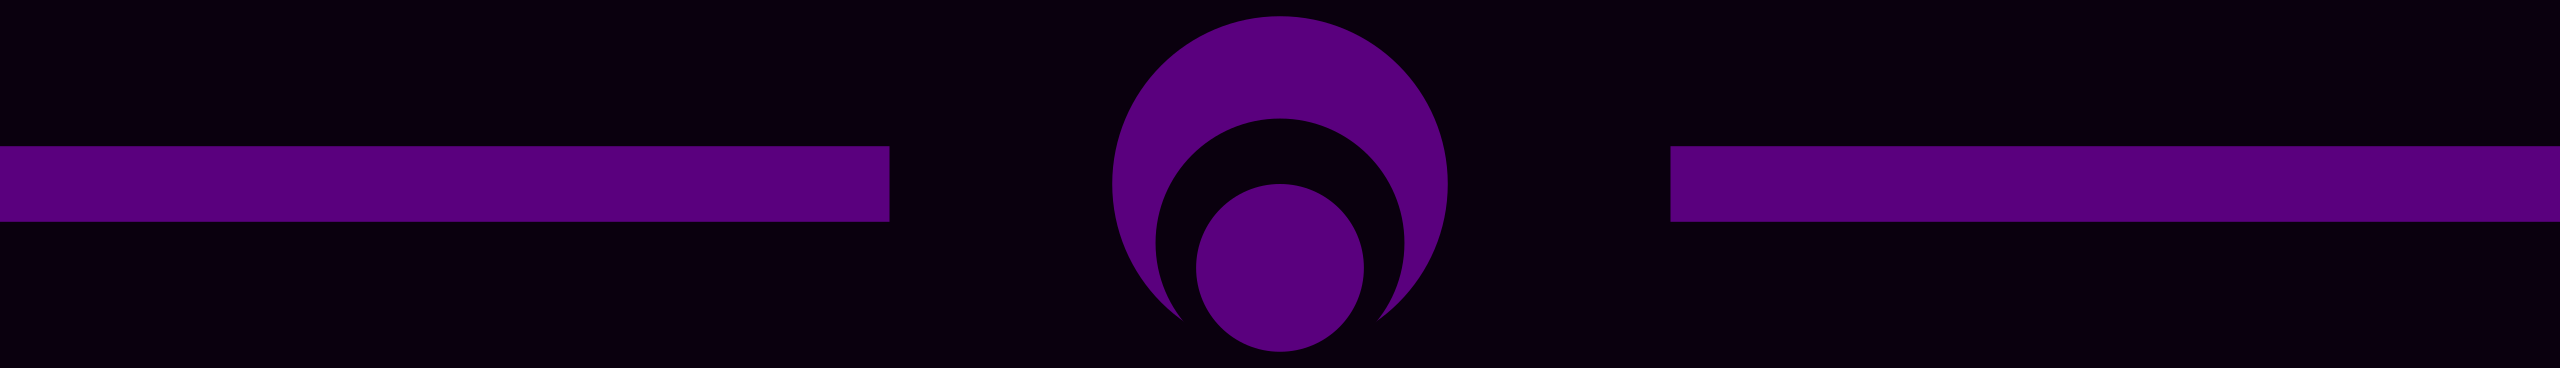
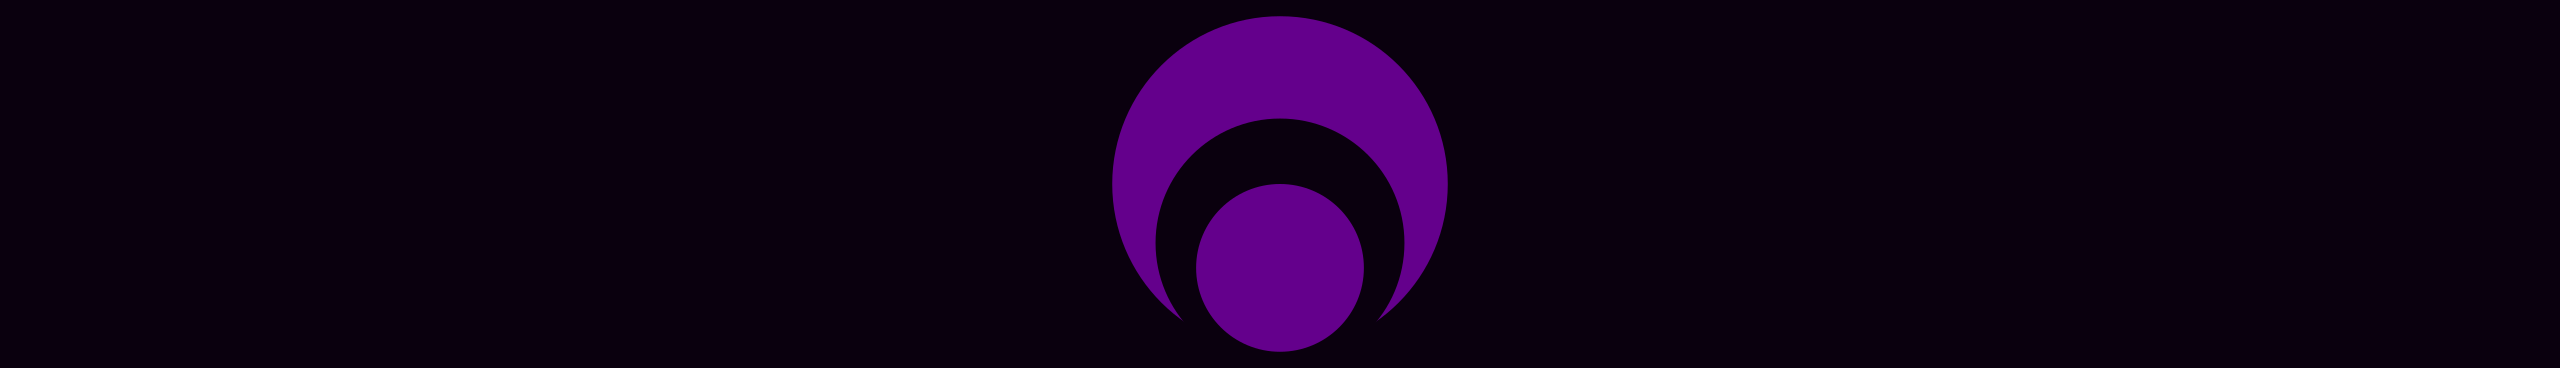
Update index & style

Changed region(s): [[0.625, 0.3886, 1.0, 0.6277], [0.0, 0.3886, 0.375, 0.6277]]

diff --git a/src/style.css b/src/style.css
@@ -10,10 +10,7 @@ body{
 
 }
 .wallpaper{
-    display: flex;
-    justify-content: center;
-    align-items: flex-end;
-    width: 100%;
+    width: 100% ;
     height: 368px;
     background: url("res/images/wallpaper-g.png") no-repeat center center;
 }
@@ -70,8 +67,7 @@ body{
     height: auto;
     padding-top: 0.5%;
     padding-bottom: 0.5%;
-    /*background: rgb(100, 0, 140);*/
-    background: rgb(90, 0, 126);
+    background: rgb(100, 0, 140);
 }
 .sticky {
     position: fixed;
@@ -127,7 +123,8 @@ body{
     bottom:18%;
     position: fixed;
     width: auto;
-    background-color: rgb(90, 0, 126);
+    border-radius: 6%;
+    background-color: rgb(100, 0, 146);
 }
 .icones{
     display: flex;
@@ -145,19 +142,6 @@ body{
 .icones p{
     text-align: center;
     font-size: 0.9em;
-}
-.outrasinfos{
-    display: flex;
-    flex-wrap: wrap;
-    justify-content:space-evenly;
-    width: 93%;
-    height: auto;
-    margin: 3% 3.5%;
-    border-style:solid;
-    border-width: 1px;
-    border-radius: 15px;
-    border-color: rgb(100, 0, 140);
-    box-shadow: 0px 2px 15px rgb(100, 0, 140);
 }
 
 h1{

diff --git a/index.html b/index.html
@@ -9,8 +9,7 @@
 </head>
 <body>
     <header>
-        <div class="wallpaper">            
-        </div>
+        <div class="wallpaper"></div>
         <div class="apresentacao">
             <div class="minhasinfos">
                 <h1><strong>Luis Fernando Vieira Leal</strong></h1>
